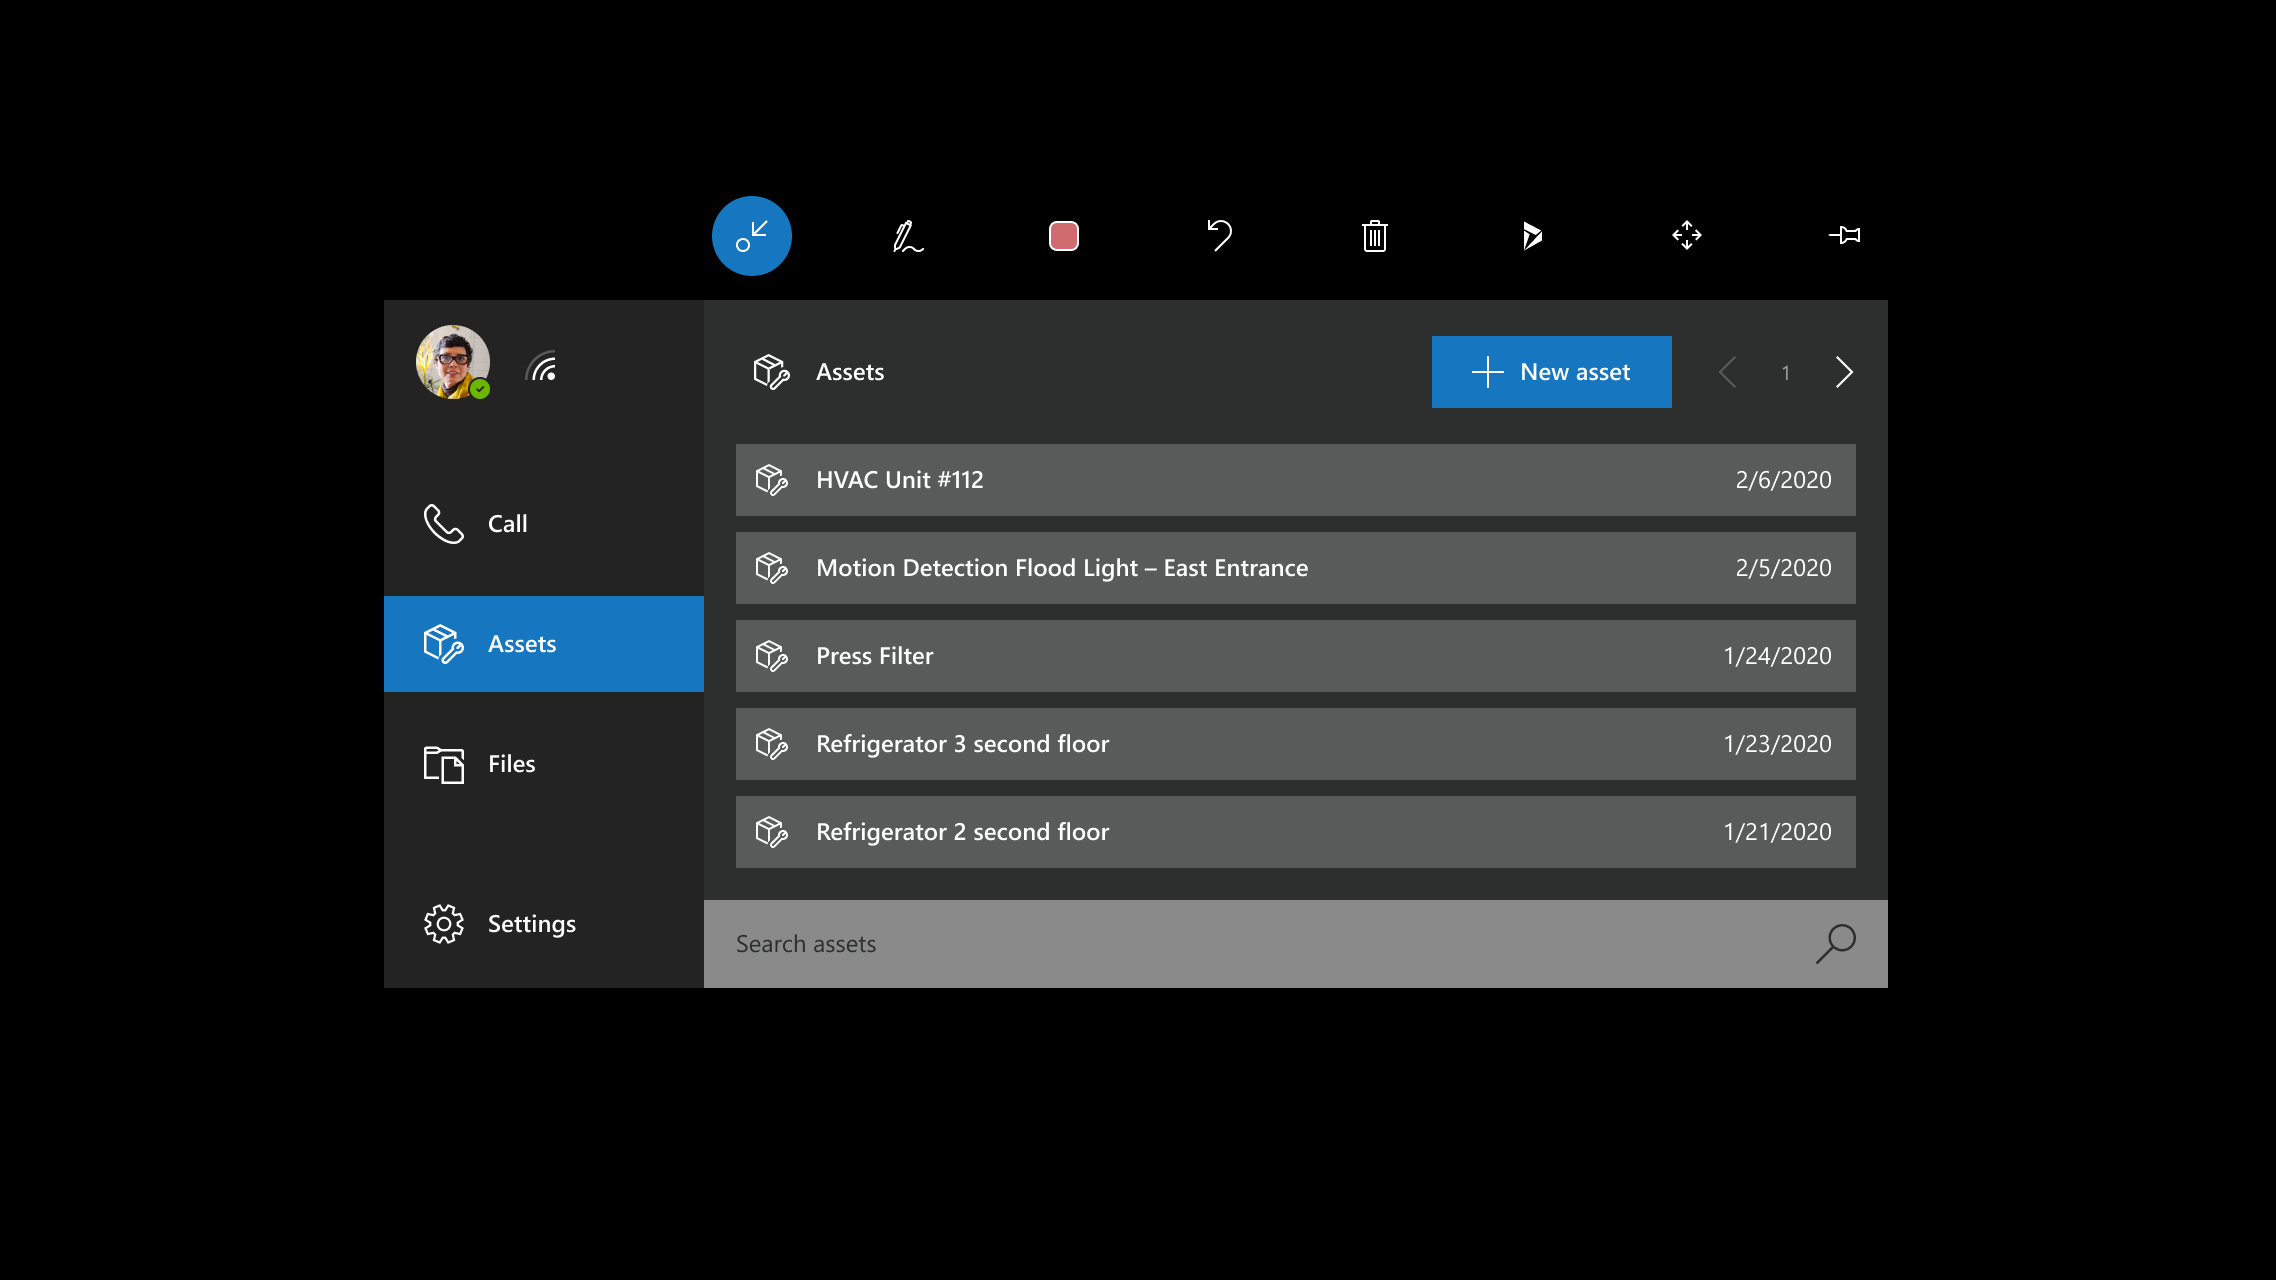
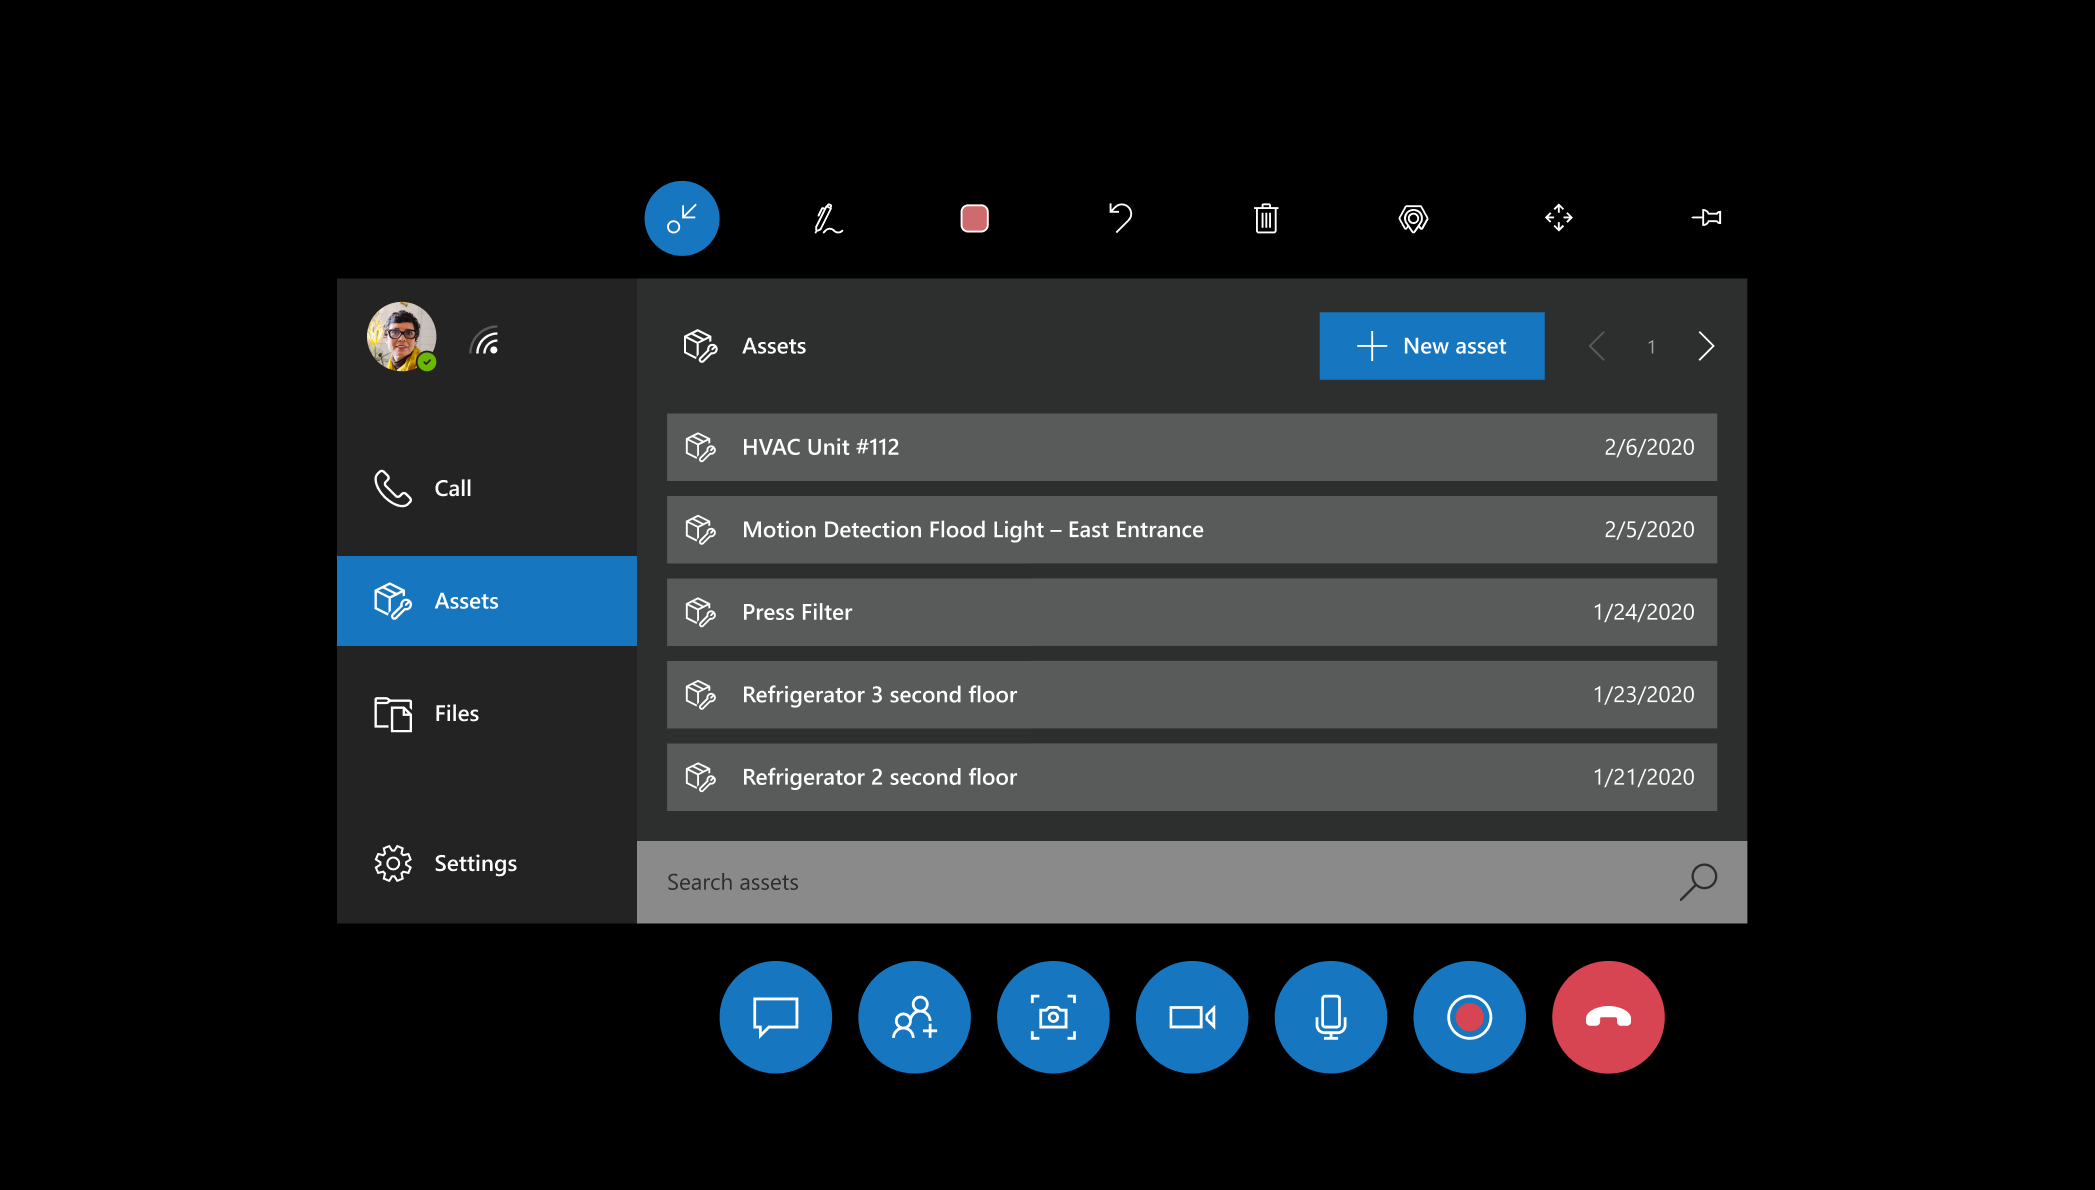
Update screenshots and include video capture in HL

diff --git a/mr-docs/remote-assist/asset-capture-photos.md b/mr-docs/remote-assist/asset-capture-photos.md
@@ -10,7 +10,7 @@ ms.reviewer: krbjoran
 ---
 # Capture asset conditions with spatial markup in HoloLens
 
-You can use Dynamics 365 Remote Assist to capture procedures and defects during jobs such as an inspections or repairs. For example, a technician can use Dynamics 365 Remote Assist on HoloLens to capture photos or videos of the equipment they're inspecting, to highlight defects like wear and corrosion. The photos can then be viewed and downloaded from the Dynamics 365 Remote Assist model-driven app by stakeholders within the organization, such as a service manager or site superintendent.
+You can use Dynamics 365 Remote Assist to capture procedures and defects during jobs such as an inspections or repairs. For example, a technician can use Dynamics 365 Remote Assist on HoloLens to capture photos or videos of the equipment they're inspecting, to highlight defects like wear and corrosion. The captures can then be viewed and downloaded from the Dynamics 365 Remote Assist model-driven app by stakeholders within the organization, such as a service manager or site superintendent.
 
 In this tutorial, you'll learn how to use HoloLens to view asset records created from the Dynamics 365 Remote Assist model-driven app and capture photos and videos of assets with spatial markup.
 
@@ -18,41 +18,35 @@ In this tutorial, you'll learn how to use HoloLens to view asset records created
 
 To complete this tutorial, you need:
 
-- **HoloLens**. The public preview requires HoloLens 1 or HoloLens 2 with Dynamics 365 Remote Assist installed. Ensure you have downloaded the latest update to Dynamics 365 Remote Assist through the Microsoft Store.
 - **Access to the environment Dynamics 365 Remote Assist is installed in**. The account you used to sign in to Dynamics 365 Remote Assist needs access to the environment created in the first step and an active Dynamics 365 Remote Assist license.
+- **Dynamics 365 Remote Assist app on HoloLens**. Ensure you have downloaded the latest update to Dynamics 365 Remote Assist through the Microsoft Store. Ensure that you've selected the [correct environment from the app settings](./asset-capture-add-users.md#selecting-the-right-environment-in-hololens).
 
 ## Capture asset conditions
 
-### Enable the public preview
-
-From Dynamics 365 Remote Assist, select **Settings** > **Preview Features**, and then turn on the **Asset Capture** toggle. This step requires you to restart Dynamics 365 Remote Assist by closing the live tile and reopening the app.
-
-![Screenshot of the settings page in Dynamics 365 Remote Assist to enable preview features](./media/08.01-settings-preview-features.png "Screenshot of the settings page in Dynamics 365 Remote Assist to enable preview features")
-
-> [!IMPORTANT]
-> Enabling the public preview replaces the snapshot tool available from the in-call toolbar with asset capture capabilities. This means that photos taken in Dynamics 365 Remote Assist will be saved to Common Data Service and will be accessible through the Dynamics 365 Remote Assist model-driven app versus OneDrive for Business. You can disable the preview on HoloLens at any time by returning to **Settings**.
-
 ### View the asset list
 
-Select the **Assets** tab. The list of assets entered through the Dynamics 365 Remote Assist model-driven app are displayed in descending order by the last-created date. At the bottom of the window, you can search for assets by using the **Name** field.
+Select the **Assets** tab. The list of assets entered through the Dynamics 365 Remote Assist model-driven app are displayed in descending order by the last-modified date. At the bottom of the window, you can search for assets by using the **Name** field.
 
 > [!NOTE]
 > The **Assets** tab is also accessible during a call. For example, while performing a real-time remote inspection, you can capture photos of the assets being inspected to the asset record from the **Assets** tab.
 
-### Capture photos with spatial markup
+### Capture photos or videos with spatial markup
 
 1. On the **Assets** tab, select an asset from the list. You can also use the search bar at the bottom of the window.
 ![Screenshot of the Assets tab in Dynamics 365 Remote Assist](./media/06.05-assets-list.png "Screenshot of the Assets tab in Dynamics 365 Remote Assist")
 2. Select the ink or arrow tools to mark up the asset in your environment. For example, you can circle an area of corrosion on a pipe.
-3. Enable the **Camera** tool to start capturing photos. The camera tool remains enabled after you take a photo.
+3. Enable the **Camera** tool to start capturing photos or the **Video** tool to start capturing videos. The camera or video tool remains enabled after you take a photo or video.
 ![Screenshot of the asset detail view in Dynamics 365 Remote Assist](./media/06.14-asset.png "Screenshot of the asset detail view in Dynamics 365 Remote Assist")
-4. Air-tap or say the **Snap** voice command to take a picture of the asset with the spatial markup. The photo will be previewed for several seconds, and then saved to Common Data Service.
+4. If taking a photo capture, Air-tap or say the **Snap** voice command to take a picture of the asset with the spatial markup. The photo will be previewed for several seconds, and then saved to Common Data Service.
 ![Screenshot of the camera mode enabled in Dynamics 365 Remote Assist](./media/06.10-photo-ready.png "Screenshot of the camera mode enabled in Dynamics 365 Remote Assist")
+If taking a video capture, Air-tap or say the **Start capture** voice command to take a picture of the asset with the spatial markup. There will be a timer displayed counting down from the maximum video-length available. There will also be a red video icon to indicate that a video is being recorded. To stop recording the video capture, Air-tap or say the **Stop capture**.
+![Screenshot of the video mode enabled in Dynamics 365 Remote Assist](./media/06.13-video-ready.png "Screenshot of the video mode enabled in Dynamics 365 Remote Assist")
+![Screenshot of stopping video capture in Dynamics 365 Remote Assist](./media/06.17-video-recording-hand-raise.png "Screenshot of stopping video capture in Dynamics 365 Remote Assist")
 
 Any existing photo can be selected in the asset view to preview in the HoloLens environment. If the current user took the photo, they can also delete that photo in the preview window.
 
 > [!NOTE]
-> Captured photos are saved both locally to HoloLens and to Common Data Service, where they're viewable from the Dynamics 365 Remote Assist model-driven app.
+> Captured photos and videos are saved both locally to HoloLens and to Common Data Service, where they're viewable from the Dynamics 365 Remote Assist model-driven app.
 
 ## Next step
 
